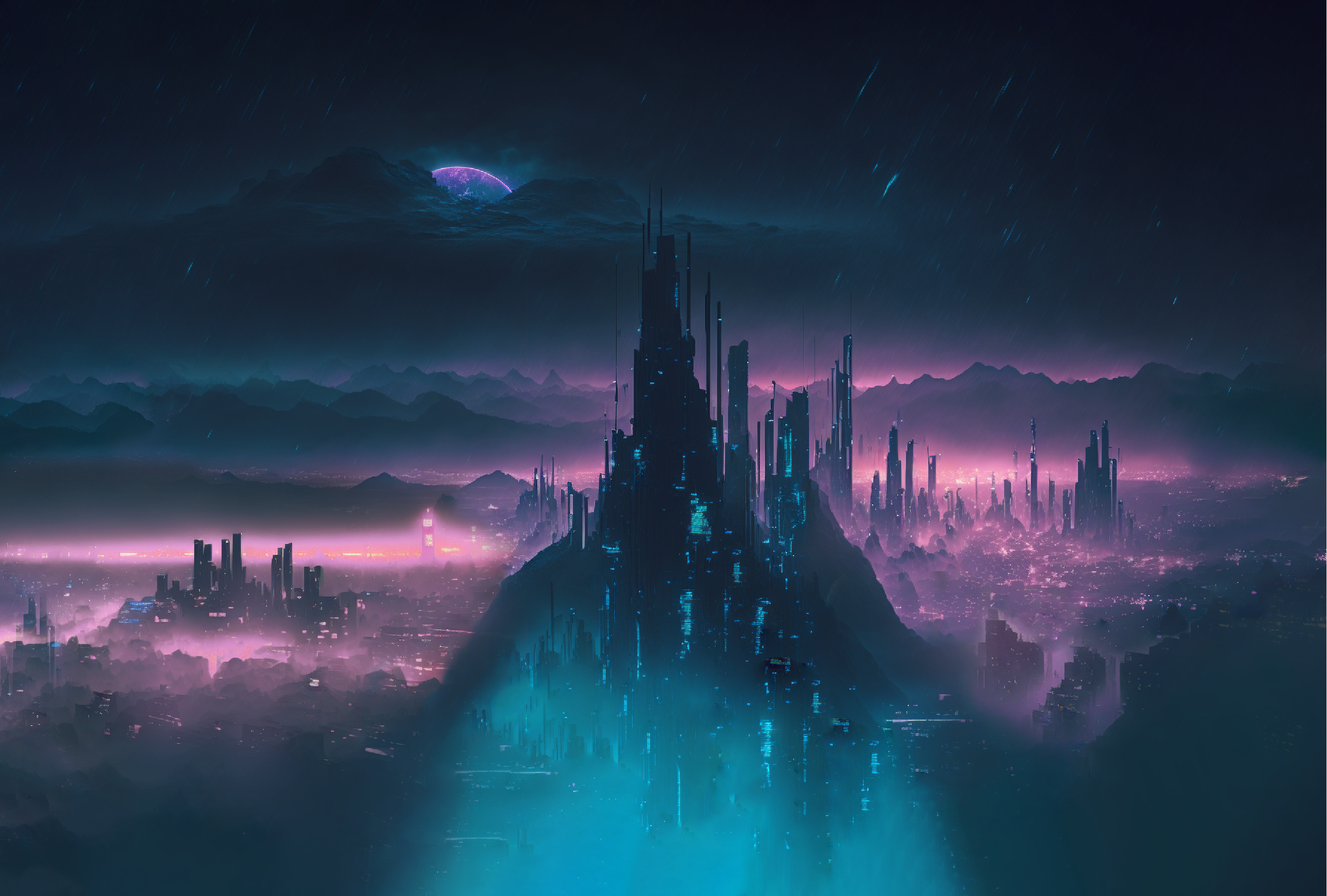
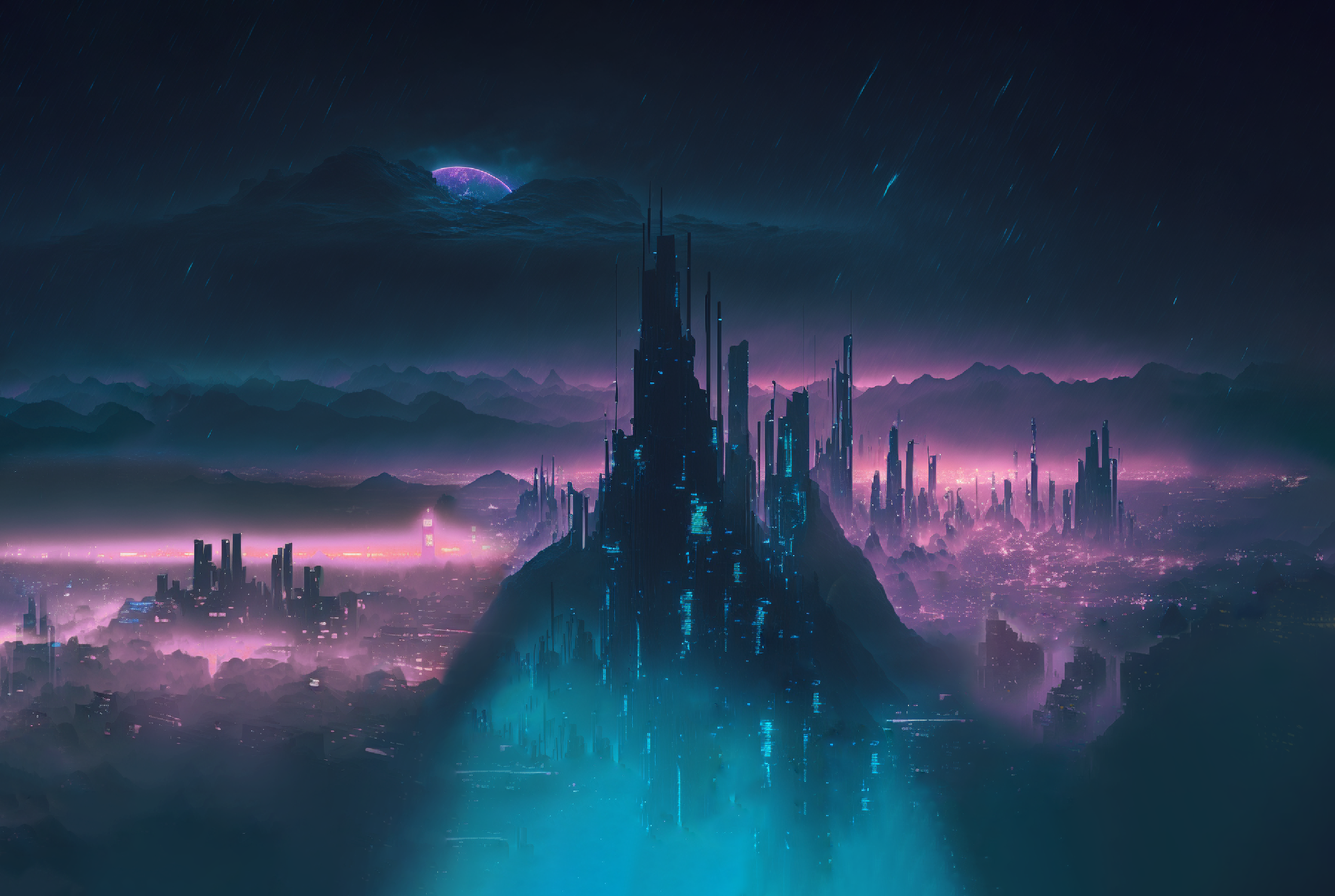
final

diff --git a/style.css b/style.css
@@ -8,6 +8,7 @@
 
 body{
     font-family: 'Poppins', sans-serif;
+    background: #151515;
 }
 
 .container{
@@ -51,13 +52,21 @@ header:after{
     right: 0;
 } */
 
-.person {
+/* .person {
     position: absolute;
     width: 800px;
     bottom: -100px;
-    /* left: -100; */
+    left: -100; 
     z-index: 20;
     right: 0;
+}*/
+
+.person {
+    position: absolute;
+    width: 950px;
+    bottom: -100px;
+    z-index: 20;
+    right: -200px;
 }
 
 .mountain2{
@@ -246,6 +255,55 @@ section .container > *{
     opacity: 0;
 }
 
+
+img {
+    animation-duration: .3s;
+    animation-timing-function: ease-in-out;
+    animation-fill-mode: forwards;
+    animation-iteration-count: infinite;
+}
+ 
+img:hover {
+    animation-name: jittery;
+}
+ 
+@keyframes jittery {
+    10% {
+        transform: translate(-2px, -3px) scale(1.01, 1.01);
+    }
+    20% {
+        transform: translate(3px, 2px) scale(.99, .99);
+    }
+    30% {
+        transform: translate(-4px, -5px) scale(1.01, 1.01);
+    }
+    40% {
+        transform: translate(2px, 3px) scale(1, 1);
+    }
+    50% {
+        transform: translate(-1px, -2px) scale(.98, .98);
+    }
+    60% {
+        transform: translate(0px, 3px) scale(1.02, 1.02);
+    }
+    70% {
+        transform: translate(-2px, -4px) scale(1, 1);
+    }
+    80% {
+        transform: translate(3px, 5px) scale(.99, .99);
+    }
+    90% {
+        transform: translate(-5px, -3px) scale(1.1, 1.1);
+    }
+    100% {
+        transform: translate(3px, 1px) scale(.95, .95);
+    }
+}
+
+
+
+
+
 @media (max-width: 850px){
     section .container{
         grid-template-columns: 1fr;
@@ -266,6 +324,12 @@ section .container > *{
         bottom: -100px;
         left: -10vw;
         z-index: 18;
+    }
+
+    section .container {
+        min-height: 70vh;
+        padding-top: 15vh;
+        padding-bottom: 15rem;
     }
 
 }

diff --git a/index.html b/index.html
@@ -11,8 +11,8 @@
     <header>
         <nav>
             <div class="container">
-                <div class="logo"><img src="/images/01.svg" style="height: 2rem;" alt=""></div>
-                <div class="hamburger-menu">
+                <div class="logo shake"><img src="/images/01.svg" style="height: 2rem;" alt=""></div>
+                <div class="hamburger-menu shake">
                     <img src="/images/hamburger.svg" style="height: 1.75rem;" alt="">
                 </div>
             </div>
@@ -24,7 +24,7 @@
         <!-- <img src="img/mountain1.png" class="mountain1 translate" data-speed="-0.2" alt=""> -->
         <img src="images/mountain.png" class="mountain2 translate center" data-speed="0.4" alt="">
         <!-- <img src="img/mountain3.png" class="mountain3 translate" data-speed="0.3" alt=""> -->
-        <img src="images/city.png" class="sky translate center" data-speed="0.5" alt="">
+        <img src="images/city-transformed.png" class="sky translate center" data-speed="0.5" alt="">
     </header>
 
     <section>
@@ -38,13 +38,14 @@
                 </h3>
                 <p class="text">Lorem ipsum dolor, sit amet consectetur adipisicing elit. Eaque officiis quos expedita ipsa, a quidem inventore voluptates debitis accusamus tenetur qui et voluptas dicta, culpa earum, doloribus odio consectetur consequuntur soluta quasi nobis! Deserunt voluptatum reiciendis iure expedita sequi quisquam laboriosam temporibus exercitationem.</p>
             </div>
-
             <div class="imgContainer opacity">
                 <img src="./images/robo.png" alt="">
             </div>
         </div>
     </section>
     
+
+
     <script src="app.js"></script>
 </body>
 </html>
